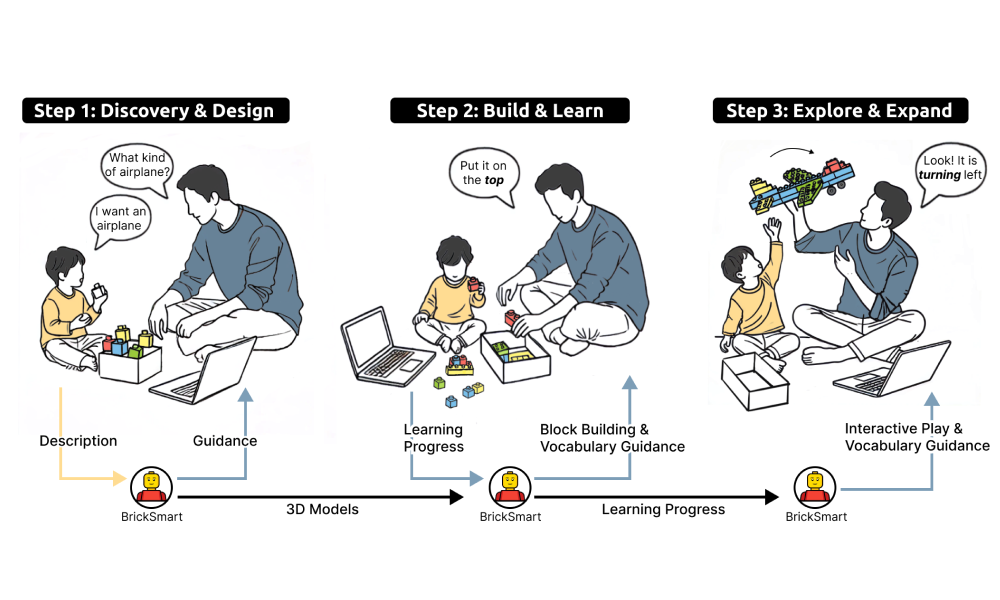
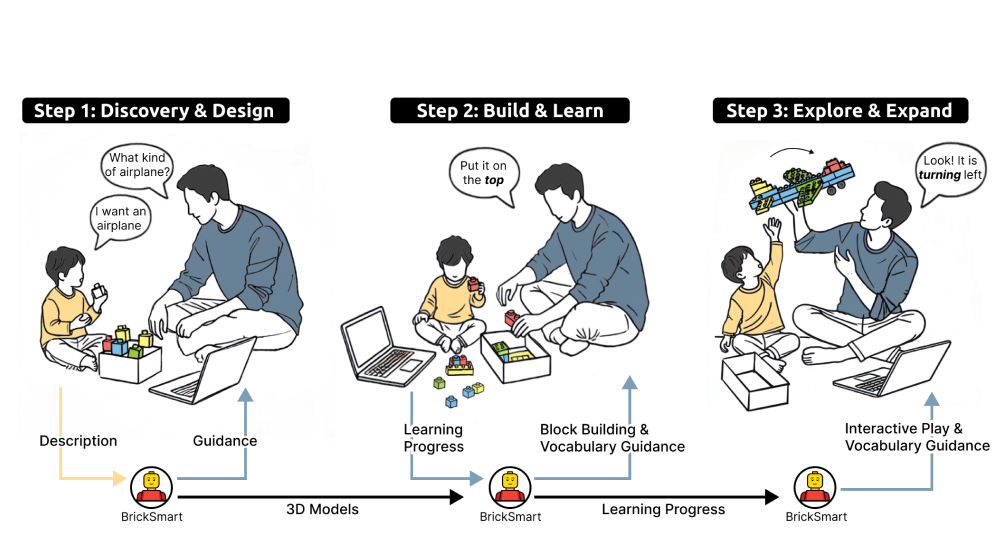
feat: add MetaBeads to interests diagram, split publications, refine sidebar layout and news

Changed region(s): [[0.0, 0.1518, 0.992, 0.9411]]

diff --git a/assets/css/main.scss b/assets/css/main.scss
@@ -243,15 +243,16 @@
     }
   }
 
-  &--left:nth-child(1) { top: 2%; }
-  &--left:nth-child(2) { top: 31%; }
-  &--left:nth-child(3) { top: 57%; }
-  &--left:nth-child(4) { top: 80%; }
+  &--left:nth-child(1) { top: 0%; }
+  &--left:nth-child(2) { top: 20%; }
+  &--left:nth-child(3) { top: 45%; }
+  &--left:nth-child(4) { top: 67%; }
+  &--left:nth-child(5) { top: 85%; }
 
-  &--right:nth-child(5) { right: 1%; top: 2%; }
-  &--right:nth-child(6) { right: 1%; top: 30%; }
-  &--right:nth-child(7) { right: 1%; top: 54%; }
-  &--right:nth-child(8) { right: 1%; top: 80%; }
+  &--right:nth-child(6) { right: 1%; top: 2%; }
+  &--right:nth-child(7) { right: 1%; top: 30%; }
+  &--right:nth-child(8) { right: 1%; top: 54%; }
+  &--right:nth-child(9) { right: 1%; top: 80%; }
 }
 
 /* Beat .page__content a { text-decoration: underline } on GitHub Pages */
@@ -481,7 +482,8 @@
   display: flex;
   flex-direction: column;
   margin-top: 1.25em;
-  max-height: calc(100vh - 18em);
+  flex: 1 1 auto;
+  min-height: 12em;
   background: #fff;
   border-radius: $border-radius;
   padding: 1.1em;
@@ -502,6 +504,54 @@
     overscroll-behavior: contain;
     -webkit-overflow-scrolling: touch;
     padding-right: 0.25em;
+  }
+}
+
+/* ── Wider page, wider left sidebar ── */
+@include breakpoint($x-large) {
+  #main,
+  .masthead__inner-wrap {
+    max-width: 1500px;
+  }
+}
+
+@include breakpoint($large) {
+  .sidebar {
+    @include span(2.5 of 12);
+  }
+
+  .page {
+    @include span(9.5 of 12 last);
+  }
+
+  .sidebar .profile_box {
+    .author__avatar img {
+      display: block;
+      margin-left: auto;
+      margin-right: auto;
+    }
+
+    .author__bio {
+      text-align: center;
+    }
+
+    .author__urls {
+      width: fit-content;
+      margin-left: auto;
+      margin-right: auto;
+    }
+  }
+}
+
+@include breakpoint($large) {
+  .sidebar.sticky {
+    display: flex;
+    flex-direction: column;
+    max-height: calc(100vh - 90px - 1em);
+
+    > .profile_box {
+      flex-shrink: 0;
+    }
   }
 }
 
@@ -574,9 +624,27 @@
     margin-bottom: 0;
 
     li {
-      padding: 0.65em 0.75em 0.65em 1em;
-      font-size: 0.88em;
+      padding: 0.65em 0.25em;
+      margin-bottom: 0;
+      font-size: 0.86em;
       line-height: 1.5;
+      background: transparent;
+      border: none;
+      border-bottom: 1px solid rgba(0, 0, 0, 0.07);
+      border-radius: 0;
+      box-shadow: none;
+
+      &:last-child {
+        border-bottom: none;
+      }
+
+      &::before {
+        display: none;
+      }
+
+      &:hover {
+        box-shadow: none;
+      }
 
       &:hover {
         transform: none;
@@ -594,11 +662,11 @@
   }
 
   &__date {
-    display: block;
+    display: inline;
     font-size: 0.92em;
     font-weight: 600;
     color: $accent-color;
-    margin-bottom: 0.2em;
+    margin-right: 0.35em;
   }
 }
 
@@ -856,8 +924,8 @@
     }
 
     .paper-box-image {
-      flex: 0 0 52%;
-      max-width: 52%;
+      flex: 0 0 47%;
+      max-width: 47%;
       min-width: 0;
       align-self: center;
       display: block;

diff --git a/_includes/interests-diagram.html b/_includes/interests-diagram.html
@@ -17,10 +17,11 @@
     </g>
 
     <g class="interests-lines">
-      <line class="interests-line" data-project="accessible-mobility" x1="100" y1="33" x2="188" y2="56" />
-      <line class="interests-line" data-project="xstrings" x1="45" y1="100" x2="169" y2="90" />
-      <line class="interests-line" data-project="flexeop" x1="57" y1="160" x2="184" y2="139" />
-      <line class="interests-line" data-project="more-than-shapes" x1="90" y1="225" x2="230" y2="164" />
+      <line class="interests-line" data-project="metabeads" x1="80" y1="12" x2="208" y2="36" />
+      <line class="interests-line" data-project="accessible-mobility" x1="100" y1="78" x2="188" y2="56" />
+      <line class="interests-line" data-project="xstrings" x1="45" y1="135" x2="169" y2="90" />
+      <line class="interests-line" data-project="flexeop" x1="57" y1="184" x2="184" y2="139" />
+      <line class="interests-line" data-project="more-than-shapes" x1="90" y1="229" x2="230" y2="164" />
       <line class="interests-line" data-project="mindshift" x1="550" y1="30" x2="450" y2="56" />
       <line class="interests-line" data-project="keyflow" x1="535" y1="95" x2="465" y2="95" />
       <line class="interests-line" data-project="bricksmart" x1="535" y1="160" x2="365" y2="155" />
@@ -28,6 +29,7 @@
     </g>
 
     <g class="interests-dots">
+      <circle class="interests-dot" data-project="metabeads" cx="208" cy="36" r="4.5" />
       <circle class="interests-dot" data-project="accessible-mobility" cx="188" cy="56" r="4.5" />
       <circle class="interests-dot" data-project="xstrings" cx="169" cy="90" r="4.5" />
       <circle class="interests-dot" data-project="flexeop" cx="184" cy="139" r="4.5" />
@@ -60,6 +62,10 @@
   </svg>
 
   <div class="interests-diagram__projects">
+    <a class="interests-project interests-project--left interests-project--chi" data-project="metabeads" data-zones="fabrication" href="https://dl.acm.org/doi/10.1145/3830398.3830618" target="_blank" rel="noopener">
+      <span class="interests-project__title">MetaBeads</span>
+      <span class="interests-project__venue">UIST'26</span>
+    </a>
     <a class="interests-project interests-project--left interests-project--chi" data-project="accessible-mobility" data-zones="fabrication" href="https://dl.acm.org/doi/full/10.1145/3772318.3791886" target="_blank" rel="noopener">
       <span class="interests-project__title">Towards Accessible<br>Mobility Support</span>
       <span class="interests-project__venue">CHI'26</span>

diff --git a/_includes/news-sidebar.html b/_includes/news-sidebar.html
@@ -4,7 +4,8 @@
   <ul class="news-list news-list--sidebar">
     {% for item in site.data.news %}
       <li>
-        <span class="news-list__date">{{ item.date }}</span>
+        {% assign ym = item.date | split: "/" %}
+        <span class="news-list__date">[{{ ym[1] }}/{{ ym[0] }}]</span>
         {{ item.content }}
       </li>
     {% endfor %}

diff --git a/_pages/about.md b/_pages/about.md
@@ -39,7 +39,7 @@ View my [**CV**](https://yujia-l.github.io/pdfs/CV.pdf) (updated: 06/2026).
 
 {% include news-sidebar.html placement="mobile" %}
 
-<h1 id="-publications" class="section-heading">{% include section-icon.html name="publications" %} Publications</h1>
+<h1 id="-publications" class="section-heading">{% include section-icon.html name="publications" %} Publications (Full Papers)</h1>
 <div class='paper-box'><div class="paper-box-badges"><div class="badge">UIST'26</div><span class="award-badge"><span class="award-badge__short">🏅 Best Demo HM</span><span class="award-badge__full">🏅 Best Demo Honorable Mention (Jury's Choice)</span></span></div><div class='paper-box-image'><div class="paper-box-image__frame"><img src='images/proj/MetaBeads.png' alt="sym"></div></div>
 <div class='paper-box-text' markdown="1" style="padding-top: 2.2em;">
 
@@ -118,6 +118,7 @@ Ruolan Wu, Chun Yu, Xiaole Pan, **<u>Yujia Liu</u>**, Ningning Zhang, Yue Fu, Yu
 </div>
 </div>
 
+<h1 id="-short-publications" class="section-heading">{% include section-icon.html name="publications" %} Publications (Short Papers)</h1>
 <div class='paper-box'><div class="badge">UIST'24 Poster</div><div class='paper-box-image'><div class="paper-box-image__frame"><img src='images/proj/KeyFlow.png' alt="sym"></div></div>
 <div class='paper-box-text' markdown="1">
 
